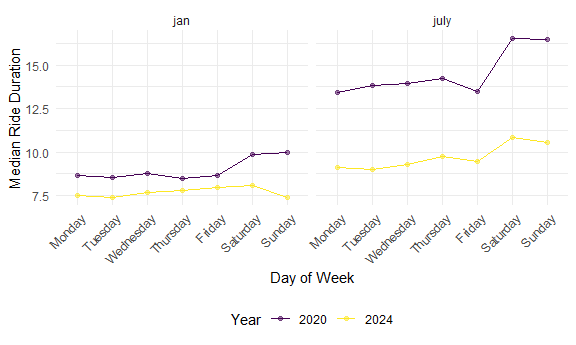
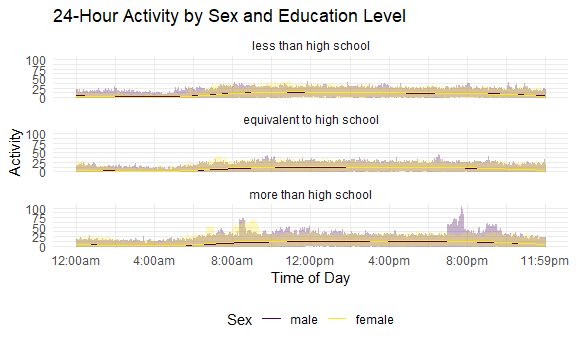
Final

diff --git a/P8105_hw3_cmh2275.md b/P8105_hw3_cmh2275.md
@@ -5,6 +5,113 @@ cmh2275
 
 # Problem 1
 
+``` r
+library(p8105.datasets)
+data("ny_noaa")
+noaa_df = ny_noaa |>
+  janitor::clean_names()|>
+  separate (date, into = c("year", "month", "day"), sep = "-", convert = TRUE)|>
+  mutate (id = as.factor(id),
+          year = as.factor(year), 
+          month = as.factor(month),
+          prcp = prcp/10, 
+          tmax = as.numeric(tmax)/10, 
+          tmin = as.numeric(tmin)/ 10
+          )
+```
+
+This data set contains snowfall and precipitation information by date
+and id location.
+
+``` r
+noaa_df|>
+  count(snow, sort = TRUE)|>
+slice_head(n = 10)
+```
+
+    ## # A tibble: 10 × 2
+    ##     snow       n
+    ##    <int>   <int>
+    ##  1     0 2008508
+    ##  2    NA  381221
+    ##  3    25   31022
+    ##  4    13   23095
+    ##  5    51   18274
+    ##  6    76   10173
+    ##  7     8    9962
+    ##  8     5    9748
+    ##  9    38    9197
+    ## 10     3    8790
+
+The most common value for snowfall is 0 mm. This is likely becuase most
+days do not have snowfall in most locations.
+
+``` r
+noaa_df |>
+  filter(month == c(1, 7))|>
+  group_by(id, year, month)|>
+  summarize(mean_tmax = mean(tmax, na.rm = TRUE), .groups= "drop")|>
+  mutate (month = factor(month, levels = c(1,7), labels = c("January", "July")))|>
+  ggplot(aes(x = year, y = mean_tmax, group = id))+
+  geom_point(alpha = 0.5, size = 0.5)+
+  geom_smooth(aes(group = 1), se = FALSE, method = "loess")+
+  facet_wrap(~month, ncol = 1)+
+  labs(
+    title = "Average Max Temperature in January and July Across Years", 
+    x = "Year", 
+    y = "Average Max Temp (Celsius)"
+    )+
+  theme (
+  axis.text.x = element_text(angle = 45, hjust = 1)
+)
+```
+
+    ## `geom_smooth()` using formula = 'y ~ x'
+
+    ## Warning: Removed 5972 rows containing non-finite outside the scale range
+    ## (`stat_smooth()`).
+
+    ## Warning: Removed 5972 rows containing missing values or values outside the scale range
+    ## (`geom_point()`).
+
+<img src="P8105_hw3_cmh2275_files/figure-gfm/unnamed-chunk-3-1.png" alt="" width="90%" />
+
+In general, the average maximum temperature across locations and years
+falls between -10 and 10 degrees Celsisu in January, but there is an
+outlier of a higher temperature in 2004. In July, the average maximum
+temperature was between 20 and 40 degrees Celsius generally, with a few
+outlier below 20 degrees, such as in 1988, 1996, and 2004.
+
+``` r
+temp_plot = noaa_df |>
+  filter(!is.na(tmax), !is.na(tmin)) |>
+  ggplot(aes(x = tmin, y = tmax)) +
+  geom_bin2d(bins = 50) +
+  scale_fill_viridis_c(trans = "log10") +
+  labs(
+    title = "Maximum vs. minimum temperature",
+    x = "Minimum temperature (°C)",
+    y = "Maximum temperature (°C)",
+    fill = "Count"
+  ) 
+
+snow_plot = noaa_df|>
+filter(snow > 0, snow < 100) |>
+  ggplot(aes(x = factor(year), y = snow)) +
+  geom_boxplot(alpha = 0.5) +
+  labs(
+    title = "Snowfall distribution by year",
+    x = "Snowfall (mm)",
+    y = "Year"
+  )+
+    theme (
+      axis.text.x = element_text(angle = 90)
+    )
+temp_plot+snow_plot
+```
+
+<img src="P8105_hw3_cmh2275_files/figure-gfm/unnamed-chunk-4-1.png" alt="" width="90%" />
+
 # Problem 2
 
 ## Import and Tidy
@@ -88,7 +195,7 @@ facet_wrap (~education)+
   )
 ```
 
-<img src="P8105_hw3_cmh2275_files/figure-gfm/unnamed-chunk-5-1.png" alt="" width="90%" />
+<img src="P8105_hw3_cmh2275_files/figure-gfm/unnamed-chunk-9-1.png" alt="" width="90%" />
 
 The “more than high school” education level has a larger count of
 participants than the other two levels. While “more than high school”
@@ -124,7 +231,7 @@ fullnhanes_df |>
 
     ## `geom_smooth()` using formula = 'y ~ x'
 
-<img src="P8105_hw3_cmh2275_files/figure-gfm/unnamed-chunk-7-1.png" alt="" width="90%" />
+<img src="P8105_hw3_cmh2275_files/figure-gfm/unnamed-chunk-11-1.png" alt="" width="90%" />
 
 Total activity demonstrates large variablity across sex and age;
 however, there is a general trend across education levels to decrease
@@ -162,7 +269,7 @@ fullnhanes_df |>
 
     ## `geom_smooth()` using method = 'gam' and formula = 'y ~ s(x, bs = "cs")'
 
-<img src="P8105_hw3_cmh2275_files/figure-gfm/unnamed-chunk-8-1.png" alt="" width="90%" />
+<img src="P8105_hw3_cmh2275_files/figure-gfm/unnamed-chunk-12-1.png" alt="" width="90%" />
 
 From these graphs, activity begins increasing around 6-7 hours after the
 start wear, which is consistent with the data starting at midnight and
@@ -269,6 +376,13 @@ citifull_df = bind_rows(jan20_df, jan24_df, july20_df, july24_df)|>
          weekdays = factor(weekdays, levels = c("Monday", "Tuesday", "Wednesday", "Thursday", "Friday", "Saturday", "Sunday")))
 ```
 
+This dataset contains 1% of all rides that were less than 4 hours in
+January and July 2020 and in January and July 2024. It contains
+variables that describe the ride id, type of bike, the day the ride was
+taken on, the station where the ride started and the station where the
+ride ended, if the rider was a member or a casual rider and the duration
+of the ride.
+
 ## Table 1
 
 ``` r
@@ -337,7 +451,7 @@ ggplot(aes(x = weekdays, y = median_duration, color = year, group = year))+
   geom_line(linewidth = 0.5)+
   facet_wrap(~month)+
   labs(
-    tite = "Median Ride Duration by Day, Month, and Year",
+    title = "Median Ride Duration by Day, Month, and Year",
     x = "Day of Week", 
     y = "Median Ride Duration", 
     color = "Year"
@@ -347,10 +461,7 @@ theme (
 )
 ```
 
-    ## Ignoring unknown labels:
-    ## • tite : "Median Ride Duration by Day, Month, and Year"
-
-<img src="P8105_hw3_cmh2275_files/figure-gfm/unnamed-chunk-12-1.png" alt="" width="90%" />
+<img src="P8105_hw3_cmh2275_files/figure-gfm/unnamed-chunk-16-1.png" alt="" width="90%" />
 Median ride durations have decreased overall from 2020 to 2024, with the
 month of July having a much larger decrease from 2020 to 2024. There is
 a general trend that median rides duration increase across the weekdays
@@ -376,7 +487,7 @@ citifull_df |>
   )
 ```
 
-<img src="P8105_hw3_cmh2275_files/figure-gfm/unnamed-chunk-13-1.png" alt="" width="90%" />
+<img src="P8105_hw3_cmh2275_files/figure-gfm/unnamed-chunk-17-1.png" alt="" width="90%" />
 
 Generally, more member rides had lower ride durations, particularly
 under 50 minutes. Electric bikes also had a trend for more lower ride
